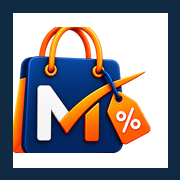
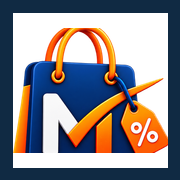
feat: implement admin shell layout, site footer, and add brand assets and authentication scaffolding

diff --git a/scripts/generate-icons.ts b/scripts/generate-icons.ts
@@ -24,25 +24,93 @@ const APP_DIR = path.join(ROOT, "src", "app");
 const NAVY = { r: 16, g: 42, b: 67, alpha: 1 };
 
 /**
+ * Trims transparent margin in its own pass. sharp reorders `trim()` and
+ * `extract()` when they are chained on one instance, which makes crop
+ * coordinates meaningless, so every crop below works from a trimmed buffer.
+ */
+async function trimmed(source: string) {
+  return sharp(source).trim({ threshold: 10 }).png().toBuffer();
+}
+
+/**
  * The square lockup stacks the bag mark above the wordmark. Only the mark is
  * legible at favicon sizes, so crop the top portion and trim the leftover
  * transparent margin.
  */
 async function extractMark() {
-  const image = sharp(SOURCE_SQUARE);
-  const { width = 0, height = 0 } = await image.metadata();
+  const base = await trimmed(SOURCE_SQUARE);
+  const { width = 0, height = 0 } = await sharp(base).metadata();
 
-  const box = {
-    left: Math.round(width * 0.2),
-    top: Math.round(height * 0.02),
-    width: Math.round(width * 0.66),
-    height: Math.round(height * 0.535),
-  };
-
-  return sharp(SOURCE_SQUARE)
-    .extract(box)
-    .trim({ threshold: 10 })
+  const cropped = await sharp(base)
+    .extract({
+      left: Math.round(width * 0.2),
+      top: Math.round(height * 0.02),
+      width: Math.round(width * 0.66),
+      height: Math.round(height * 0.535),
+    })
     .png()
+    .toBuffer();
+
+  return sharp(cropped).trim({ threshold: 10 }).png().toBuffer();
+}
+
+/**
+ * The full lockup carries a tagline and a ".online" badge that turn to mud
+ * below ~60px, but the tagline sits *above* the bottom of the bag, so it cannot
+ * simply be cropped off. Instead, recompose a compact lockup from two clean
+ * pieces: the extracted bag mark and the wordmark lifted out of the wide art.
+ */
+async function buildCompactLockup(mark: Buffer) {
+  const base = await trimmed(SOURCE_WIDE);
+  const { width = 0, height = 0 } = await sharp(base).metadata();
+
+  const wordmarkCrop = await sharp(base)
+    .extract({
+      left: Math.round(width * 0.27),
+      top: Math.round(height * 0.24),
+      width: Math.round(width * 0.72),
+      height: Math.round(height * 0.36),
+    })
+    .png()
+    .toBuffer();
+
+  const wordmark = await sharp(wordmarkCrop).trim({ threshold: 10 }).png().toBuffer();
+
+  const CANVAS_HEIGHT = 240;
+  const MARK_HEIGHT = Math.round(CANVAS_HEIGHT * 0.92); // keeps the bag off the edge
+
+  const sizedMark = await sharp(mark)
+    .resize({ height: MARK_HEIGHT, withoutEnlargement: false })
+    .toBuffer();
+
+  // Keeps the wordmark-to-mark proportion of the original artwork.
+  const sizedWord = await sharp(wordmark)
+    .resize({ height: Math.round(MARK_HEIGHT * 0.5), withoutEnlargement: false })
+    .toBuffer();
+
+  const markMeta = await sharp(sizedMark).metadata();
+  const wordMeta = await sharp(sizedWord).metadata();
+  const gap = Math.round(CANVAS_HEIGHT * 0.05);
+
+  const canvasWidth = (markMeta.width ?? 0) + gap + (wordMeta.width ?? 0);
+
+  return sharp({
+    create: {
+      width: canvasWidth,
+      height: CANVAS_HEIGHT,
+      channels: 4,
+      background: { r: 0, g: 0, b: 0, alpha: 0 },
+    },
+  })
+    .composite([
+      { input: sizedMark, left: 0, top: Math.round((CANVAS_HEIGHT - (markMeta.height ?? 0)) / 2) },
+      {
+        input: sizedWord,
+        left: (markMeta.width ?? 0) + gap,
+        top: Math.round((CANVAS_HEIGHT - (wordMeta.height ?? 0)) / 2),
+      },
+    ])
+    .png({ compressionLevel: 9 })
     .toBuffer();
 }
 
@@ -109,8 +177,7 @@ async function main() {
   };
 
   // 1. Wide wordmark for headers and the login screen.
-  const wide = await sharp(SOURCE_WIDE)
-    .trim({ threshold: 10 })
+  const wide = await sharp(await trimmed(SOURCE_WIDE))
     .resize({ width: 720, withoutEnlargement: true })
     .png({ compressionLevel: 9 })
     .toBuffer();
@@ -120,7 +187,10 @@ async function main() {
   const mark = await extractMark();
   await record(path.join(PUBLIC_DIR, "logo-mark.png"), await squareIcon(mark, 512));
 
-  // 3. Favicons. Next.js serves these automatically from src/app.
+  // 3. Compact lockup for app chrome, where the tagline would be unreadable.
+  await record(path.join(PUBLIC_DIR, "logo-compact.png"), await buildCompactLockup(mark));
+
+  // 4. Favicons. Next.js serves these automatically from src/app.
   const ico16 = await squareIcon(mark, 16);
   const ico32 = await squareIcon(mark, 32);
   const ico48 = await squareIcon(mark, 48);
@@ -134,12 +204,11 @@ async function main() {
   );
   await record(path.join(APP_DIR, "icon.png"), await squareIcon(mark, 96));
 
-  // 4. Apple touch icon: iOS ignores transparency, so give it the navy tile.
+  // 5. Apple touch icon: iOS ignores transparency, so give it the navy tile.
   await record(path.join(APP_DIR, "apple-icon.png"), await squareIcon(mark, 180, NAVY));
 
-  // 5. Open Graph / Twitter card image: wordmark centred on brand navy.
-  const ogLogo = await sharp(SOURCE_WIDE)
-    .trim({ threshold: 10 })
+  // 6. Open Graph / Twitter card image: wordmark centred on brand navy.
+  const ogLogo = await sharp(await trimmed(SOURCE_WIDE))
     .resize({ width: 820, withoutEnlargement: true })
     .toBuffer();
 

diff --git a/src/components/admin/admin-shell.tsx b/src/components/admin/admin-shell.tsx
@@ -72,10 +72,10 @@ export function AdminShell({
         <div className="flex h-16 items-center justify-between gap-2 border-b border-white/10 px-4">
           <Link href="/admin" className="flex items-center" aria-label="ManaDeals admin">
             <Image
-              src="/logo.png"
+              src="/logo-compact.png"
               alt="ManaDeals"
-              width={720}
-              height={239}
+              width={1025}
+              height={240}
               priority
               className="h-8 w-auto object-contain"
             />

diff --git a/src/app/(auth)/admin/login/login-form.tsx b/src/app/(auth)/admin/login/login-form.tsx
@@ -47,10 +47,10 @@ export function LoginForm({ nextPath }: { nextPath: string }) {
     <div className="space-y-8">
       <div className="space-y-2">
         <Image
-          src="/logo.png"
+          src="/logo-compact.png"
           alt="ManaDeals.online"
-          width={720}
-          height={239}
+          width={1025}
+          height={240}
           priority
           className="mb-2 h-10 w-auto object-contain lg:hidden"
         />

diff --git a/scripts/seed.ts b/scripts/seed.ts
@@ -583,7 +583,7 @@ async function seedContent(adminId: mongoose.Types.ObjectId, categories: Map<str
         general: {
           siteName: process.env.NEXT_PUBLIC_SITE_NAME || "ManaDeals.online",
           tagline: "Smart deals, every day.",
-          logo: "/logo.png",
+          logo: "/logo-compact.png",
           favicon: "/favicon.ico",
           contactEmail: process.env.SEED_ADMIN_EMAIL || "admin@manadeals.online",
         },

diff --git a/src/components/site/site-footer.tsx b/src/components/site/site-footer.tsx
@@ -56,8 +56,8 @@ export function SiteFooter({
             <Image
               src={logo || "/logo.png"}
               alt={siteName}
-              width={720}
-              height={239}
+              width={1025}
+              height={240}
               className="h-10 w-auto object-contain"
             />
             <p className="max-w-xs text-sm">

diff --git a/src/app/(auth)/layout.tsx b/src/app/(auth)/layout.tsx
@@ -16,7 +16,7 @@ export default function AuthLayout({ children }: { children: React.ReactNode }) 
           width={720}
           height={239}
           priority
-          className="h-12 w-auto self-start object-contain"
+          className="h-16 w-auto self-start object-contain"
         />
 
         <div className="space-y-4">

diff --git a/src/components/site/site-header.tsx b/src/components/site/site-header.tsx
@@ -54,8 +54,8 @@ export function SiteHeader({
           <Image
             src={logo || "/logo.png"}
             alt={siteName}
-            width={720}
-            height={239}
+            width={1025}
+            height={240}
             priority
             className="h-9 w-auto object-contain sm:h-10"
           />

diff --git a/README.md b/README.md
@@ -141,17 +141,30 @@ npm run icons
 
 | Output | Used by |
 | --- | --- |
-| `public/logo.png` | Storefront header and footer, admin sidebar, login screen |
+| `public/logo.png` | Full lockup with tagline — auth panel, anywhere it renders large |
+| `public/logo-compact.png` | Mark + wordmark, no tagline — storefront header/footer, admin sidebar |
 | `public/logo-mark.png` | Square 512px mark, for any square slot |
 | `src/app/favicon.ico` | `/favicon.ico` — 16/32/48px, PNG-in-ICO |
 | `src/app/icon.png` | Modern browser tab icon (96px) |
 | `src/app/apple-icon.png` | iOS home screen (180px, navy tile — iOS ignores transparency) |
 | `public/og-image.png` | Open Graph / Twitter card (1200x630, wordmark on brand navy) |
 
-The square source is a stacked lockup, so the script crops it to the bag mark before
-building icons — the wordmark is unreadable below about 64px. Point `LOGO_WIDE` and
-`LOGO_SQUARE` at new art and re-run; nothing is hand-edited. Settings → General also
-stores the logo and favicon paths, so they can be repointed without a deploy.
+Two things the script handles that are easy to get wrong by hand:
+
+- **The square source is a stacked lockup**, so it is cropped to the bag mark before
+  building icons — the wordmark is unreadable below about 64px.
+- **The full lockup's tagline turns to mud under ~60px**, but it sits *above* the bottom
+  of the bag, so it cannot simply be cropped off. `logo-compact.png` is instead
+  recomposed from two clean pieces: the extracted mark plus the wordmark lifted out of
+  the wide art.
+
+Note that sharp reorders `trim()` and `extract()` when they are chained on one instance,
+which silently invalidates crop coordinates — every crop here therefore runs as two
+explicit passes.
+
+Point `LOGO_WIDE` and `LOGO_SQUARE` at new art and re-run; nothing is hand-edited.
+Settings → General stores the logo and favicon paths, so the chrome logo can be
+repointed without a deploy.
 
 ### Wiki
 
